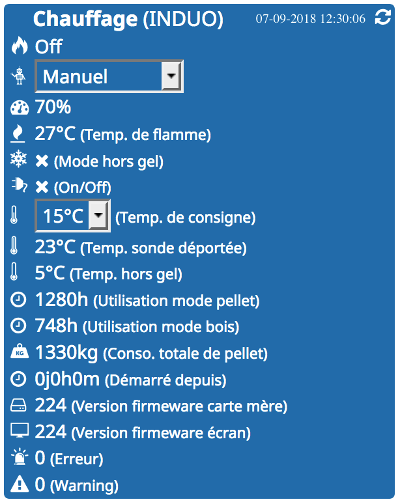
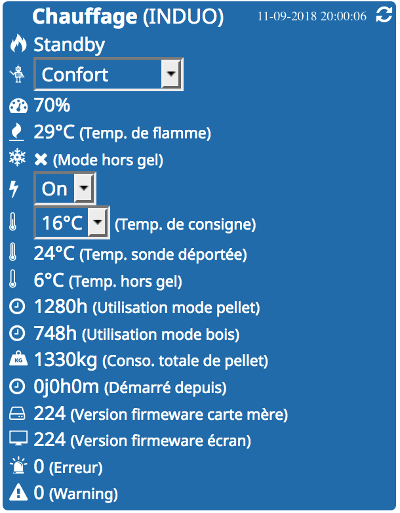
modify stove state

Changed region(s): [[0.0, 0.0, 0.99, 1.0]]

diff --git a/core/template/dashboard/rikaha.html b/core/template/dashboard/rikaha.html
@@ -47,18 +47,35 @@
       $('.eqLogic[data-eqLogic_id=#id#] .#frostProtectionActive_id#_check').append('<i class="fa fa-check"></i>');
     }
   </script>
+
+  <div class="tooltips" data-cmd_id="#local_setonOff_id#" style="margin-left:5px;#onOff_display#">
+      <span title="#onOff_name#" class="fa fa-bolt" style="min-width:15px"></span>
+      <select class="#local_setonOff_id#_selectCmd" style="background-color:#background-color#;">
+        #onOff_options#
+      </select>
+  </div>
+  <script>
+    $('.eqLogic[data-eqLogic_id=#id#] .#local_setonOff_id#_selectCmd').on('change', function () {
+      $('.eqLogic[data-eqLogic_id=#id#] .statusCmd').append('<i data-rikaha="processing" class="fa fa-rss" style="margin-top: 3px;margin-right: 3px;"></i>');
+      jeedom.cmd.execute({id: '#local_setonOff_id#', value: $(this).val()});
+      setTimeout(function(){$("[data-rikaha=processing]").remove();}, 2000);
+    });
+  </script>
+
+  <!--
   <div class="tooltips" data-cmd_id="#onOff_id#" style="margin-left:5px;#onOff_display#">
-      <span title="#onOff_name#" class="fa techno-cable1" style="min-width:15px"></span>
+      <span title="#onOff_name#" class="fa techno-fa-bolt" style="min-width:15px"></span>
       <span class="#onOff_id#_check"></span>
       <span style="font-size: 0.8em;">(#onOff_name#)</span>
   </div>
   <script>
     if('#onOff#' == '0' ){
-      $('.eqLogic[data-eqLogic_id=#id#] .#onOff_id#_check').append('<i class="fa fa-times"></i>');
+      $('.eqLogic[data-eqLogic_id=#id#] .#onOff_id#_check').append('<i class="fa fa-ban"> Off</i>');
     }else{
-      $('.eqLogic[data-eqLogic_id=#id#] .#onOff_id#_check').append('<i class="fa fa-check"></i>');
+      $('.eqLogic[data-eqLogic_id=#id#] .#onOff_id#_check').append('<i class="fa fa-check-circle-o"> On</i>');
     }
   </script>
+-->
 <div class="tooltips" data-cmd_id="#local_settargetTemperature_id#" style="margin-left:5px;#targetTemperature_display#">
   <span title="#targetTemperature_name#" class="fa jeedom-thermo-moyen" style="min-width:15px"></span>
   <select class="#local_settargetTemperature_id#_selectCmd" style="background-color:#background-color#;">

diff --git a/core/class/rikaha.class.php b/core/class/rikaha.class.php
@@ -1791,6 +1791,18 @@ class rikaha extends eqLogic {
           'visible'=>1,
           'configuration'=>array(array('k1'=>'actionCmd', 'k2'=>'setoperatingMode'),array('k1'=>'stovekey', 'k2'=>'operatingMode')),
           'unite'=>''
+        ),
+        //Set OnOff action
+        'local_setonOff'=>array(
+          'name'=>__("Modifier l'état", __FILE__),
+          'id'=>'local_setonOff',
+          'parent'=>'0',
+          'type'=>'action',
+          'subtype'=>'other',
+          'historized'=>0,
+          'visible'=>1,
+          'configuration'=>array(array('k1'=>'actionCmd', 'k2'=>'setonOff'),array('k1'=>'stovekey', 'k2'=>'onOff')),
+          'unite'=>''
         )
       );
     }
@@ -2246,7 +2258,19 @@ class rikaha extends eqLogic {
         log::add('rikaha', 'debug',  __FUNCTION__ . '()-ln:'.__LINE__.' key: '. $stovekey .' not found in allowed structure');
         throw new Exception(__('Action impossible à réaliser sur votre poêle, merci de consulter vos logs en mode debug',__FILE__));
       }
-      $stoveStructure[$stovekey]=trim($_options);
+
+      switch ($stovekey) {
+        case 'onOff':
+          if($_options==1){
+            $stoveStructure[$stovekey]='TRUE';
+          }else{
+            $stoveStructure[$stovekey]='FALSE';
+          }
+          break;
+
+          default:
+            $stoveStructure[$stovekey]=trim($_options);
+      }
 
       foreach ($stoveStructure as $key => $value) {
         if(trim($value)==''){
@@ -2465,9 +2489,14 @@ class rikaha extends eqLogic {
       $replace['#frostProtectionActive_display#'] = (is_object($frostProtectionActive) && $frostProtectionActive->getIsVisible()) ? "" : "display: none;";
 
       $onOff = $this->getCmd(null,'onOff');
-      $replace['#onOff#'] = (is_object($onOff)) ? $onOff->execCmd() : '';
-      $replace['#onOff_id#'] = is_object($onOff) ? $onOff->getId() : '';
+      $local_setonOff = $this->getCmd(null,'local_setonOff');
+      $replace['#local_setonOff_id#'] = is_object($local_setonOff) ? $local_setonOff->getId() : '';
       $replace['#onOff_name#'] = is_object($onOff) ? $onOff->getName() : '';
+      $options = array();
+      $selected= is_object($onOff) ? $onOff->execCmd() : '';
+      $options[]=array('value'=>0, 'label'=>__('Off',__FILE__));
+      $options[]=array('value'=>1, 'label'=>__('On',__FILE__));
+      $replace['#onOff_options#']=$this->HtmlBuildOptions($options, $selected);
       $replace['#onOff_display#'] = (is_object($onOff) && $onOff->getIsVisible()) ? "" : "display: none;";
 
       $parameterRuntimePellets = $this->getCmd(null,'parameterRuntimePellets');
@@ -2578,6 +2607,7 @@ class rikahaCmd extends cmd {
             break;
           case 'settargetTemperature':
           case 'setoperatingMode':
+          case 'setonOff':
             $this->getEqLogic()->getInfo();
             $this->getEqLogic()->setStove($this->getConfiguration('stovekey'), $_options);
             $this->getEqLogic()->refreshWidget();

diff --git a/docs/fr_FR/index.md b/docs/fr_FR/index.md
@@ -13,7 +13,7 @@ Les principales fonctionnalités de Rikaha sont :
 Ex: La puissance de chauffre, la température de consigne, la température de flamme, la température de la sonde externe, la consommation de pellets ...
 
 **Le pilotage**
-> Vous pouvez depuis votre Jeedom piloter des fonctionnalités du poêle. En particulier vous pouvez modifier la température de consigne, le mode de fonctionnement (Manuel, Automatique, Confort)
+> Vous pouvez depuis votre Jeedom piloter des fonctionnalités du poêle. En particulier vous pouvez modifier la température de consigne, le mode de fonctionnement (Manuel, Automatique, Confort) ainsi que l'état (On/Off)
 
 **Le widget Rikaha**
 

diff --git a/docs/fr_FR/changelog.md b/docs/fr_FR/changelog.md
@@ -3,3 +3,5 @@
 Vous retrouverez le détail complet des mises à jour sur https://github.com/openhautomation/rikaha
 
 Liste des évolutions majeures de la version courante :
+
+11 09 2018 - Possibilité de modifier l'état (On/Off) du poêle.
